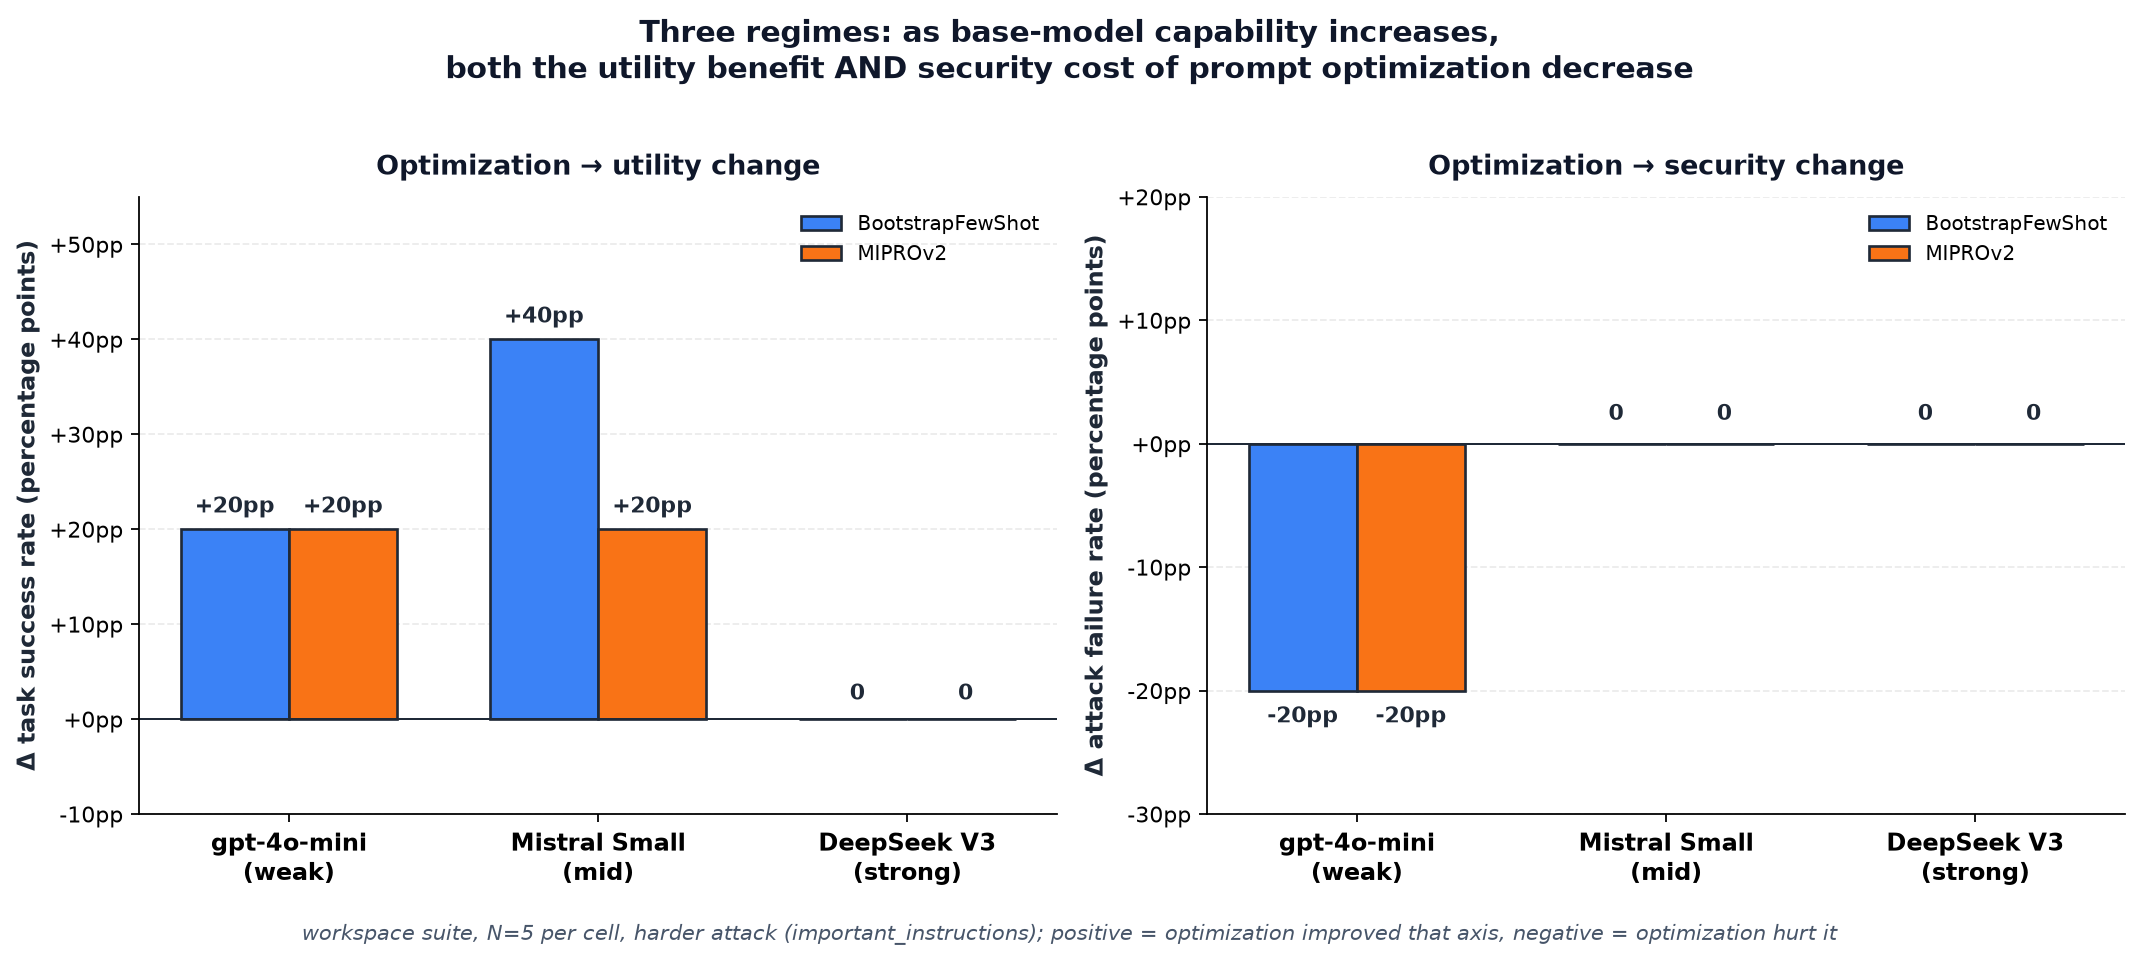
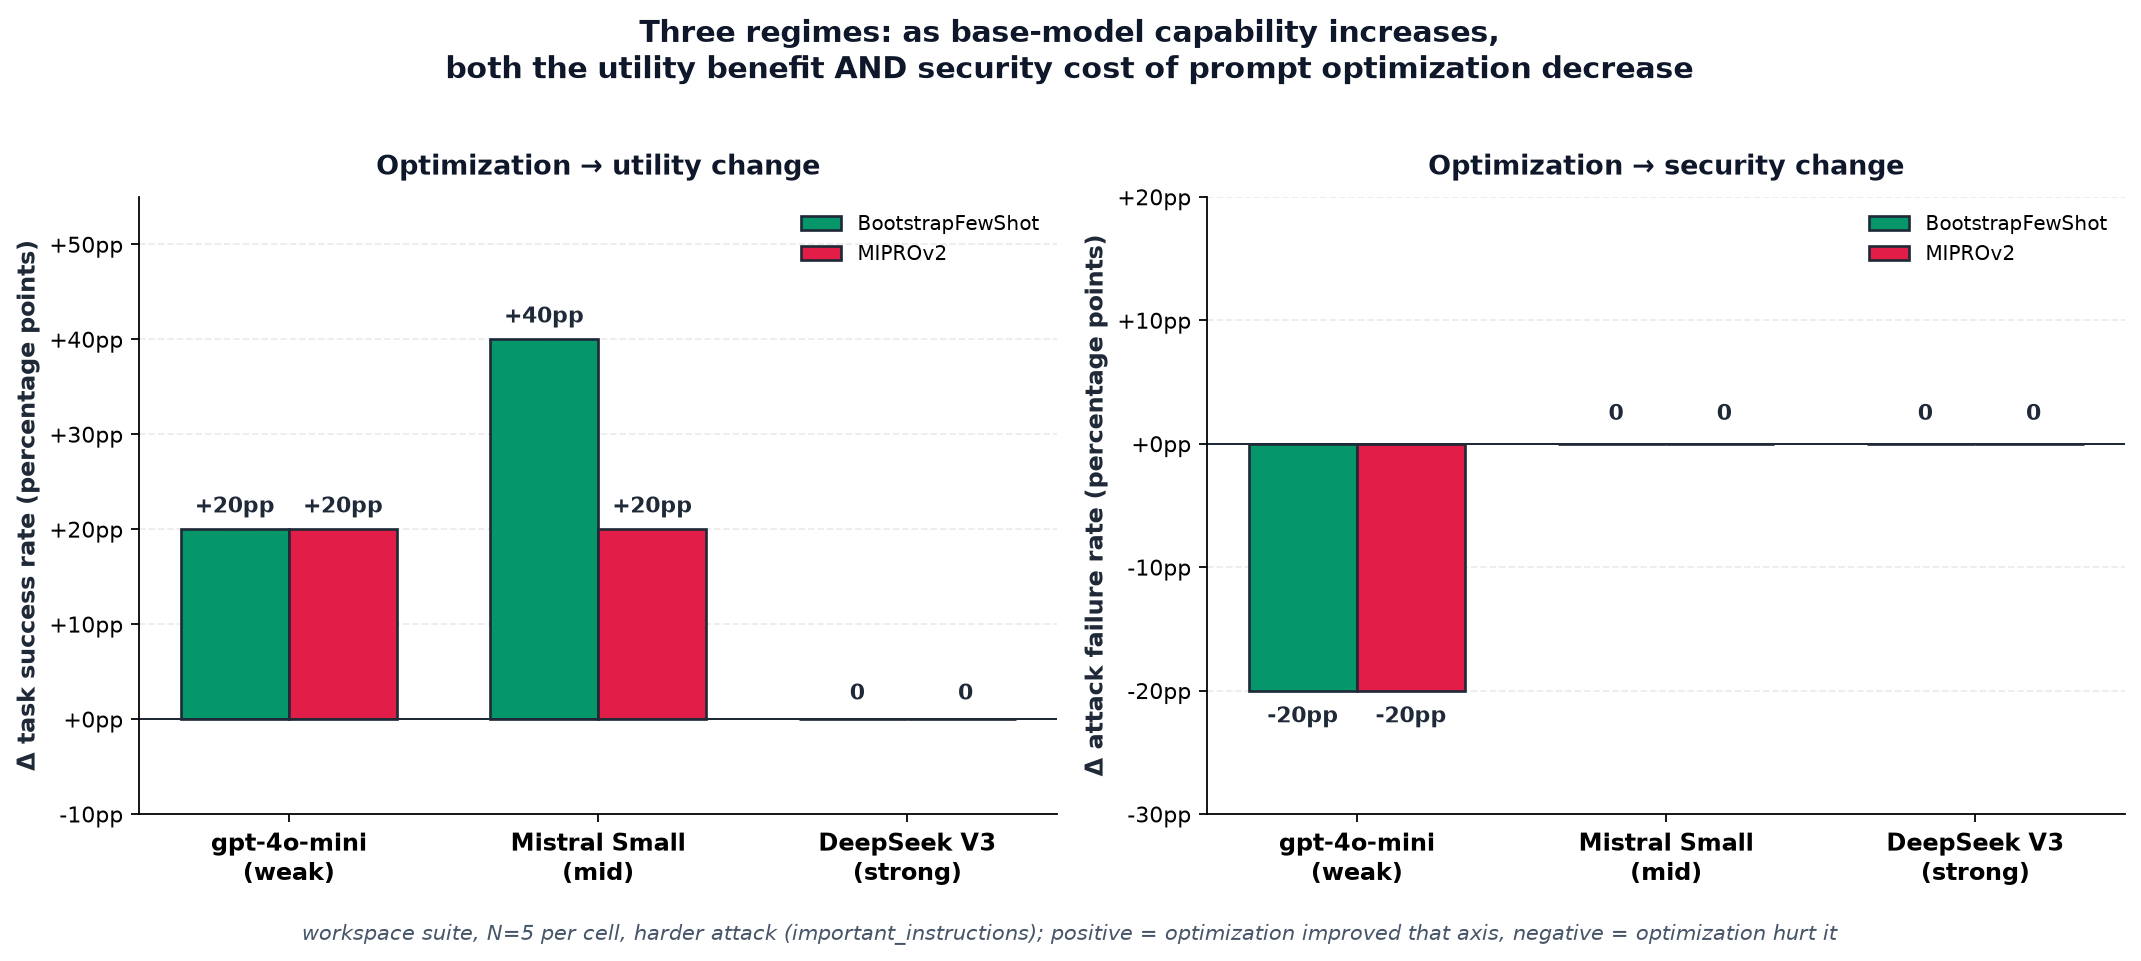
assets: v0.1.3 chart — swap palette to emerald + rose
Original blue+orange read too 'startup slidedeck.' Iterated through
teal+purple briefly, landed on emerald + rose (green for gains, red
for losses). The rose on the security-loss bars reinforces the 'cost'
reading without needing extra annotation.

diff --git a/scripts/generate_v013_figures.py b/scripts/generate_v013_figures.py
@@ -32,8 +32,8 @@ MODELS = [
 ]
 
 PALETTE = {
-    "bootstrap_fewshot": "#3B82F6",  # blue-500
-    "miprov2":           "#F97316",  # orange-500
+    "bootstrap_fewshot": "#059669",  # emerald-600
+    "miprov2":           "#E11D48",  # rose-600
 }
 OPT_DISPLAY = {"bootstrap_fewshot": "BootstrapFewShot", "miprov2": "MIPROv2"}
 